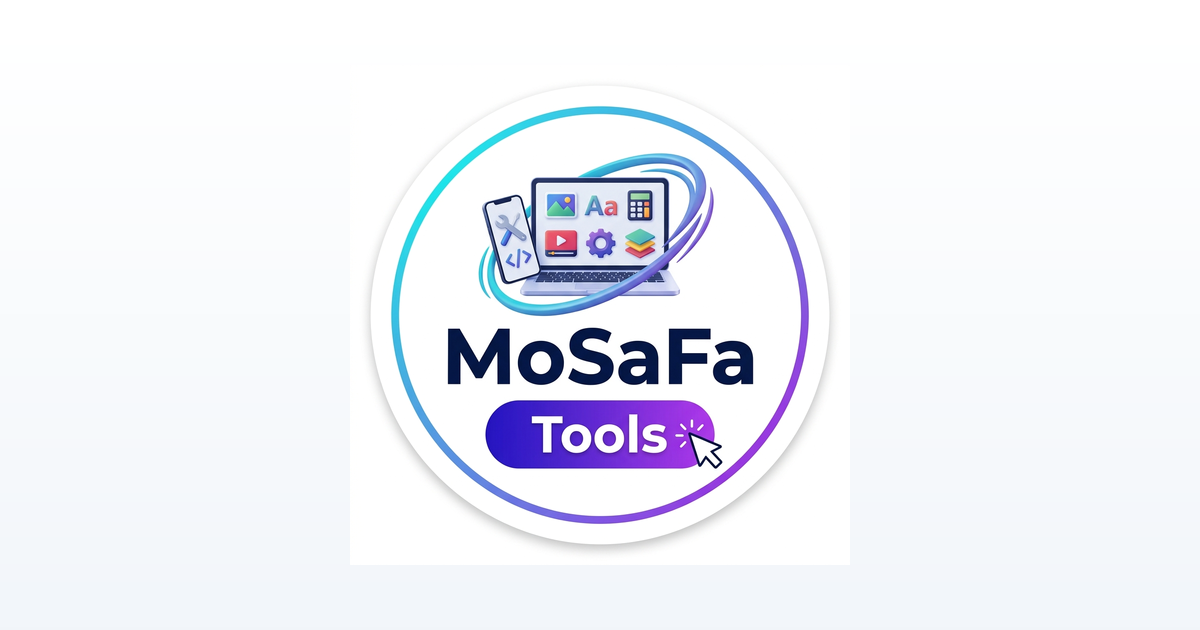
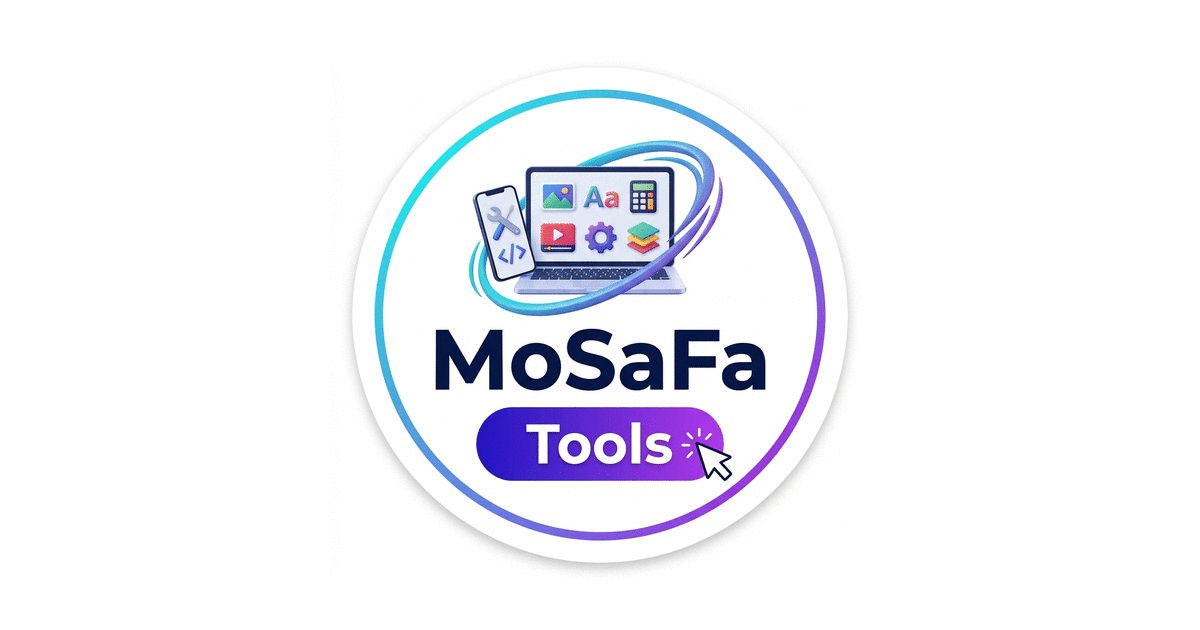
feat: add share button and update SEO metadata
- Integrate share button in header and mobile menu
- Update social sharing metadata and description
- Replace site preview image to improve WhatsApp link previews

Changed region(s): [[0.3083, 0.1206, 0.7092, 0.9048]]

diff --git a/index.html b/index.html
@@ -15,30 +15,38 @@
       });
     </script>
     <title>MoSaFa Tools - সকল অনলাইন টুলস পোর্টাল</title>
-    <meta name="description" content="সকল প্রয়োজনীয় বাংলা অনলাইন সফটওয়্যার টুলস এক ক্লিকে — MoSaFa All Form Fillup, দরখাস্ত রাইটার, সিভি মেকার, কনটেন্ট ক্রিয়েটর স্টুডিও, উদ্যোক্তা সহকারী, কুইজ ও ইউটিলিটি টুলস।" />
+    <meta name="description" content="অনলাইন সেবার দারুন প্লাটফর্ম, আপনিও আপনার বন্ধু বান্ধবের মাঝে এখনি  শেয়ার করুন" />
     
     <!-- Canonical URL -->
     <link rel="canonical" href="https://tools.mosafabd.com/" />
 
-    <!-- Open Graph / Facebook / WhatsApp / Messenger / LinkedIn Preview -->
+    <!-- Open Graph / WhatsApp / Facebook / Messenger / Telegram Preview -->
     <meta property="og:type" content="website" />
     <meta property="og:site_name" content="MoSaFa Tools" />
     <meta property="og:url" content="https://tools.mosafabd.com/" />
     <meta property="og:title" content="MoSaFa Tools - সকল অনলাইন টুলস পোর্টাল" />
-    <meta property="og:description" content="সকল প্রয়োজনীয় বাংলা অনলাইন সফটওয়্যার টুলস এক ক্লিকে — MoSaFa All Form Fillup, দরখাস্ত রাইটার, সিভি মেকার, কনটেন্ট ক্রিয়েটর স্টুডিও, উদ্যোক্তা সহকারী, কুইজ ও ইউটিলিটি টুলস।" />
-    <meta property="og:image" content="https://tools.mosafabd.com/og-image.png?v=4.0.0" />
-    <meta property="og:image:secure_url" content="https://tools.mosafabd.com/og-image.png?v=4.0.0" />
-    <meta property="og:image:type" content="image/png" />
+    <meta property="og:description" content="অনলাইন সেবার দারুন প্লাটফর্ম, আপনিও আপনার বন্ধু বান্ধবের মাঝে এখনি  শেয়ার করুন" />
+    
+    <!-- WhatsApp & Social Large Square Image Card (< 100KB for guaranteed WhatsApp preview card) -->
+    <meta property="og:image" content="https://tools.mosafabd.com/og-preview-600.jpg?v=5.1.0" />
+    <meta property="og:image:secure_url" content="https://tools.mosafabd.com/og-preview-600.jpg?v=5.1.0" />
+    <meta property="og:image:type" content="image/jpeg" />
+    <meta property="og:image:width" content="600" />
+    <meta property="og:image:height" content="600" />
+    <meta property="og:image:alt" content="MoSaFa Tools Official Brand Logo" />
+    <link rel="image_src" href="https://tools.mosafabd.com/og-preview-600.jpg?v=5.1.0" />
+
+    <!-- Secondary Full HD Banner for Facebook Desktop & LinkedIn -->
+    <meta property="og:image" content="https://tools.mosafabd.com/og-image.jpg?v=5.1.0" />
+    <meta property="og:image:type" content="image/jpeg" />
     <meta property="og:image:width" content="1200" />
     <meta property="og:image:height" content="630" />
-    <meta property="og:image:alt" content="MoSaFa Tools Official Brand Logo" />
-    <link rel="image_src" href="https://tools.mosafabd.com/og-image.png?v=4.0.0" />
 
     <!-- Twitter / X Card Preview -->
     <meta name="twitter:card" content="summary_large_image" />
     <meta name="twitter:title" content="MoSaFa Tools - সকল অনলাইন টুলস পোর্টাল" />
-    <meta name="twitter:description" content="সকল প্রয়োজনীয় বাংলা অনলাইন সফটওয়্যার টুলস এক ক্লিকে — MoSaFa All Form Fillup, দরখাস্ত রাইটার, সিভি মেকার, কনটেন্ট ক্রিয়েটর স্টুডিও, উদ্যোক্তা সহকারী, কুইজ ও ইউটিলিটি টুলস।" />
-    <meta name="twitter:image" content="https://tools.mosafabd.com/og-image.png?v=4.0.0" />
+    <meta name="twitter:description" content="অনলাইন সেবার দারুন প্লাটফর্ম, আপনিও আপনার বন্ধু বান্ধবের মাঝে এখনি  শেয়ার করুন" />
+    <meta name="twitter:image" content="https://tools.mosafabd.com/og-preview-600.jpg?v=5.1.0" />
     <meta name="twitter:image:alt" content="MoSaFa Tools Official Brand Logo" />
 
     <!-- Multi-platform Favicons & App Icons -->

diff --git a/src/components/Header.tsx b/src/components/Header.tsx
@@ -238,6 +238,19 @@ export const Header: React.FC<HeaderProps> = ({
             </button>
           )}
 
+          {/* Quick Header Share Button */}
+          {onOpenShare && (
+            <button
+              type="button"
+              onClick={onOpenShare}
+              className="w-10 h-10 sm:w-11 sm:h-11 rounded-2xl bg-white hover:bg-indigo-50 text-slate-700 hover:text-indigo-600 border border-slate-200 shadow-2xs hover:border-indigo-300 flex items-center justify-center transition cursor-pointer active:scale-95 shrink-0"
+              title="বন্ধুদের মাঝে সাইট শেয়ার করুন"
+              aria-label="Share site"
+            >
+              <Share2 className="w-4 h-4 text-indigo-600" />
+            </button>
+          )}
+
           {/* থ্রি লাইন মেনু (☰) */}
           <div className="relative" ref={menuRef}>
             <button
@@ -421,6 +434,35 @@ export const Header: React.FC<HeaderProps> = ({
                   />
                   <Search className="w-3.5 h-3.5 text-slate-400 absolute left-2.5 top-2.5" />
                 </div>
+
+                {/* ৩-লাইনের ভিতরে শেয়ার বাটন */}
+                {onOpenShare && (
+                  <button
+                    type="button"
+                    onClick={() => {
+                      setIsMenuOpen(false);
+                      onOpenShare();
+                    }}
+                    className="w-full mb-2 p-2.5 rounded-2xl bg-gradient-to-r from-blue-600 via-indigo-600 to-violet-600 hover:from-blue-700 hover:to-violet-700 text-white shadow-sm flex items-center justify-between gap-2.5 transition cursor-pointer active:scale-98 text-left"
+                  >
+                    <div className="flex items-center gap-2.5">
+                      <div className="w-8 h-8 rounded-xl bg-white/20 backdrop-blur-xs flex items-center justify-center shrink-0">
+                        <Share2 className="w-4 h-4 text-white" />
+                      </div>
+                      <div>
+                        <span className="text-xs font-bold leading-tight block">
+                          বন্ধুদের মাঝে শেয়ার করুন 🚀
+                        </span>
+                        <span className="text-[10px] text-indigo-100 block">
+                          অনলাইন সেবার দারুণ প্ল্যাটফর্ম বন্ধুদের পাঠান
+                        </span>
+                      </div>
+                    </div>
+                    <span className="text-[11px] font-extrabold bg-white text-indigo-700 px-2.5 py-1 rounded-xl shadow-xs shrink-0">
+                      শেয়ার
+                    </span>
+                  </button>
+                )}
 
                 {/* সরাসরি অ্যাপ ইনস্টল অপশন (ত্রি লাইনের ভিতরে) */}
                 <button

diff --git a/src/components/SharePortalModal.tsx b/src/components/SharePortalModal.tsx
@@ -82,7 +82,7 @@ export const SharePortalModal: React.FC<SharePortalModalProps> = ({
   };
 
   const handleWhatsAppShare = (text: string, url: string) => {
-    const encoded = encodeURIComponent(`${text}\n\n👉 লিংক: ${url}`);
+    const encoded = encodeURIComponent(`${text}\n${url}`);
     window.open(`https://api.whatsapp.com/send?text=${encoded}`, '_blank');
   };
 
@@ -196,7 +196,7 @@ export const SharePortalModal: React.FC<SharePortalModalProps> = ({
               type="button"
               onClick={() =>
                 handleWhatsAppShare(
-                  `The MoSaFa Tools - সকল প্রয়োজনীয় বাংলা অনলাইন টুলস এক ক্লিকে (StudyMate BD, CV Maker, ভোটার স্থানান্তর, পোস্টার স্টুডিও সহ ${toBanglaNum(totalToolsCount)}টি কার্যকরী টুলস)`,
+                  'অনলাইন সেবার দারুন প্লাটফর্ম, আপনিও আপনার বন্ধু বান্ধবের মাঝে এখনি  শেয়ার করুন',
                   publicPortalUrl
                 )
               }
@@ -260,8 +260,8 @@ export const SharePortalModal: React.FC<SharePortalModalProps> = ({
             type="button"
             onClick={() =>
               handleNativeShare(
-                'The MoSaFa Tools - সকল অনলাইন টুলস পোর্টাল',
-                'সকল প্রয়োজনীয় বাংলা অনলাইন টুলস এক জায়গায় - The MoSaFa StudyMate BD, CV Maker, ভোটার স্থানান্তর ফরম সহ প্রয়োজনীয় সকল কার্যকরী টুলস।',
+                'MoSaFa Tools - সকল অনলাইন টুলস পোর্টাল',
+                'অনলাইন সেবার দারুন প্লাটফর্ম, আপনিও আপনার বন্ধু বান্ধবের মাঝে এখনি  শেয়ার করুন',
                 publicPortalUrl
               )
             }

diff --git a/scripts/optimize-og-images.py b/scripts/optimize-og-images.py
@@ -1,0 +1,57 @@
+import subprocess
+import os
+
+source_logo = "public/logo.png"
+
+# 1. Generate 800x800 WhatsApp & Facebook Square Preview JPEG (Optimal size ~70KB)
+subprocess.run([
+    "convert", source_logo,
+    "-background", "#ffffff",
+    "-flatten",
+    "-resize", "800x800",
+    "-quality", "90",
+    "public/og-image-square.jpg"
+], check=True)
+
+# 2. Generate 800x800 Square Preview PNG (< 180KB)
+subprocess.run([
+    "convert", source_logo,
+    "-background", "#ffffff",
+    "-flatten",
+    "-resize", "800x800",
+    "-strip",
+    "-quality", "90",
+    "public/og-image-square.png"
+], check=True)
+
+# 3. Generate 1200x630 Banner JPEG (< 120KB) with centered logo
+subprocess.run([
+    "convert",
+    "-size", "1200x630",
+    "canvas:#ffffff",
+    "(", source_logo, "-resize", "540x540", ")",
+    "-gravity", "center",
+    "-composite",
+    "-quality", "88",
+    "public/og-image.jpg"
+], check=True)
+
+# 4. Generate 1200x630 Banner PNG (< 200KB)
+subprocess.run([
+    "convert",
+    "-size", "1200x630",
+    "canvas:#ffffff",
+    "(", source_logo, "-resize", "540x540", ")",
+    "-gravity", "center",
+    "-composite",
+    "-strip",
+    "-quality", "88",
+    "public/og-image.png"
+], check=True)
+
+# 5. Also copy og-image-square.jpg to public/og-preview.jpg
+subprocess.run(["cp", "public/og-image-square.jpg", "public/og-preview.jpg"], check=True)
+
+for f in ["public/og-image-square.jpg", "public/og-image-square.png", "public/og-image.jpg", "public/og-image.png", "public/og-preview.jpg"]:
+    size = os.path.getsize(f)
+    print(f"{f}: {size} bytes ({size/1024:.1f} KB)")
